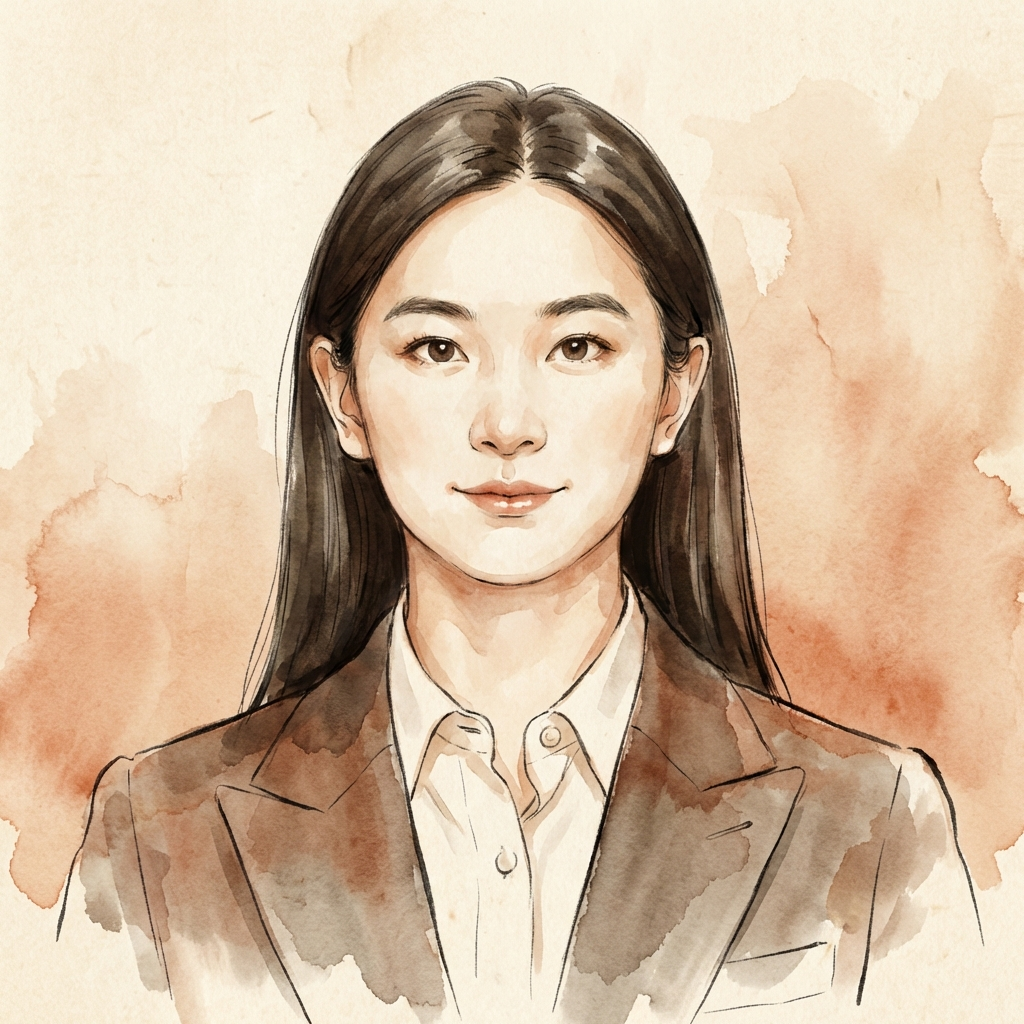
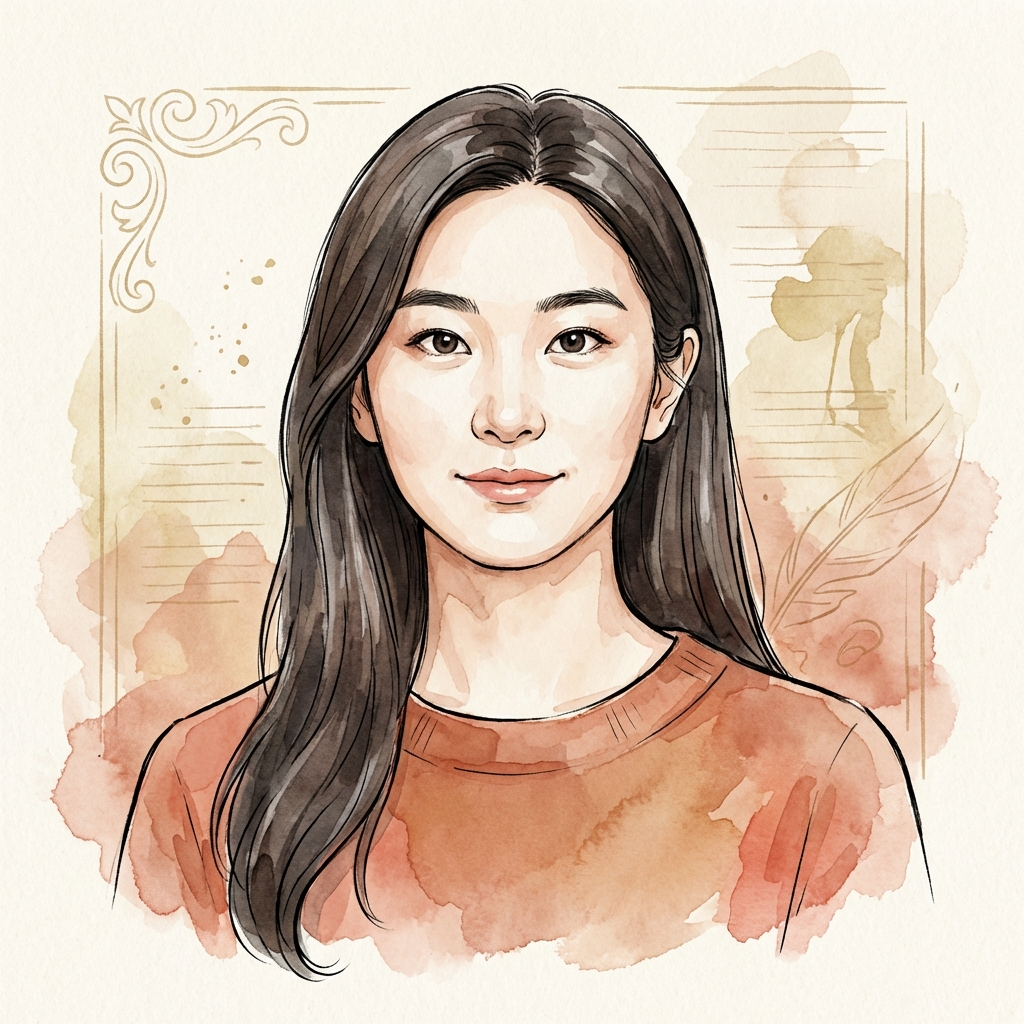
Update: new subtitle, remove timeline, add back-to-top button, game-inspired backgrounds

diff --git a/index.html b/index.html
@@ -60,7 +60,7 @@
           <span class="hero__name-cn">高彬馨</span>
         </h1>
         <p class="hero__tagline">Pursuing net positive impact,<br>driven by curiosity.</p>
-        <p class="hero__subtitle">PhD Researcher at UMD · Former VC & Product Builder</p>
+        <p class="hero__subtitle">PhD Researcher at UMD · Former Investor / Game Designer / Social Influencer</p>
         <div class="hero__cta">
           <a href="#projects" class="btn btn--primary">View Research</a>
           <a href="#contact" class="btn btn--secondary">Get in Touch</a>
@@ -86,7 +86,7 @@
           <p class="about__lead">I study how innovation ecosystems evolve, bridging quantitative finance, technology
             product development, and venture capital experience.</p>
 
-          <p>Before academia, I spent eight years in industry—designing games at NetEase, building AI products at
+          <p>Before academia, I spent years in industry—designing games at NetEase, building AI products at
             Tencent, and investing in technology ventures at CCB International. This journey was never linear, but
             always driven by one question: <em>How do we create systems that generate net positive impact?</em></p>
 
@@ -116,33 +116,6 @@
             <span class="education-card__year">2014</span>
           </div>
         </aside>
-      </div>
-
-      <!-- Career Timeline -->
-      <div class="timeline">
-        <h3 class="timeline__title">Career Trajectory</h3>
-        <div class="timeline__track">
-          <div class="timeline__item">
-            <span class="timeline__year">2014</span>
-            <span class="timeline__label">Quantitative Research</span>
-          </div>
-          <div class="timeline__item">
-            <span class="timeline__year">2016</span>
-            <span class="timeline__label">Game Design · NetEase</span>
-          </div>
-          <div class="timeline__item">
-            <span class="timeline__year">2020</span>
-            <span class="timeline__label">Product & AI · Tencent</span>
-          </div>
-          <div class="timeline__item">
-            <span class="timeline__year">2022</span>
-            <span class="timeline__label">Venture Capital · CCBI</span>
-          </div>
-          <div class="timeline__item timeline__item--current">
-            <span class="timeline__year">2024</span>
-            <span class="timeline__label">PhD Research · UMD</span>
-          </div>
-        </div>
       </div>
     </div>
   </section>
@@ -308,6 +281,14 @@
       <p class="footer__tagline">Pursuing net positive impact.</p>
     </div>
   </footer>
+
+  <!-- Back to Top Button -->
+  <a href="#hero" class="back-to-top" id="backToTop" aria-label="Back to top">
+    <svg xmlns="http://www.w3.org/2000/svg" width="24" height="24" viewBox="0 0 24 24" fill="none" stroke="currentColor"
+      stroke-width="2" stroke-linecap="round" stroke-linejoin="round">
+      <path d="M18 15l-6-6-6 6" />
+    </svg>
+  </a>
 
   <script type="module" src="/js/main.js"></script>
 </body>

diff --git a/css/style.css b/css/style.css
@@ -64,6 +64,41 @@
   --shadow-lg: 0 12px 32px rgba(44, 42, 38, 0.12);
 }
 
+/* Back to Top Button */
+.back-to-top {
+  position: fixed;
+  bottom: var(--space-xl);
+  right: var(--space-xl);
+  width: 48px;
+  height: 48px;
+  background-color: var(--white);
+  border: 1px solid var(--border-light);
+  border-radius: 50%;
+  display: flex;
+  align-items: center;
+  justify-content: center;
+  color: var(--text-secondary);
+  box-shadow: var(--shadow-md);
+  opacity: 0;
+  visibility: hidden;
+  transform: translateY(20px);
+  transition: all var(--transition-base);
+  z-index: 999;
+}
+
+.back-to-top.visible {
+  opacity: 1;
+  visibility: visible;
+  transform: translateY(0);
+}
+
+.back-to-top:hover {
+  background-color: var(--accent-primary);
+  border-color: var(--accent-primary);
+  color: var(--white);
+  transform: translateY(-2px);
+}
+
 /* ----------------------------------------
    CSS Reset & Base Styles
    ---------------------------------------- */
@@ -475,10 +510,62 @@ em {
 .section {
   padding: var(--space-4xl) var(--space-lg);
   border-top: 1px solid var(--border-light);
+  position: relative;
 }
 
 .section:nth-child(even) {
   background-color: var(--bg-secondary);
+}
+
+/* Game-inspired section backgrounds (Easter eggs) */
+.about {
+  position: relative;
+  overflow: hidden;
+}
+
+.about::before {
+  content: '';
+  position: absolute;
+  top: 0;
+  left: 0;
+  right: 0;
+  bottom: 0;
+  background-image: url('/assets/images/journey-bg.png');
+  background-size: cover;
+  background-position: center;
+  opacity: 0.08;
+  pointer-events: none;
+  z-index: 0;
+}
+
+.about .section__container {
+  position: relative;
+  z-index: 1;
+}
+
+.projects {
+  position: relative;
+  overflow: hidden;
+}
+
+.projects::before {
+  content: '';
+  position: absolute;
+  top: 0;
+  left: 0;
+  right: 0;
+  bottom: 0;
+  background-image: url('/assets/images/cosmos-bg.png');
+  background-size: cover;
+  background-position: center;
+  opacity: 0.06;
+  pointer-events: none;
+  z-index: 0;
+}
+
+.projects .section__container {
+  position: relative;
+  z-index: 1;
 }
 
 .section__container {

diff --git a/js/main.js b/js/main.js
@@ -70,9 +70,21 @@ function handleScroll() {
     ticking = false;
 }
 
+// Back to top button visibility
+const backToTop = document.getElementById('backToTop');
+
+function toggleBackToTop() {
+    if (window.scrollY > window.innerHeight * 0.5) {
+        backToTop?.classList.add('visible');
+    } else {
+        backToTop?.classList.remove('visible');
+    }
+}
+
 window.addEventListener('scroll', () => {
     if (!ticking) {
         requestAnimationFrame(handleScroll);
+        toggleBackToTop(); // Add this to the existing scroll listener
         ticking = true;
     }
 });
